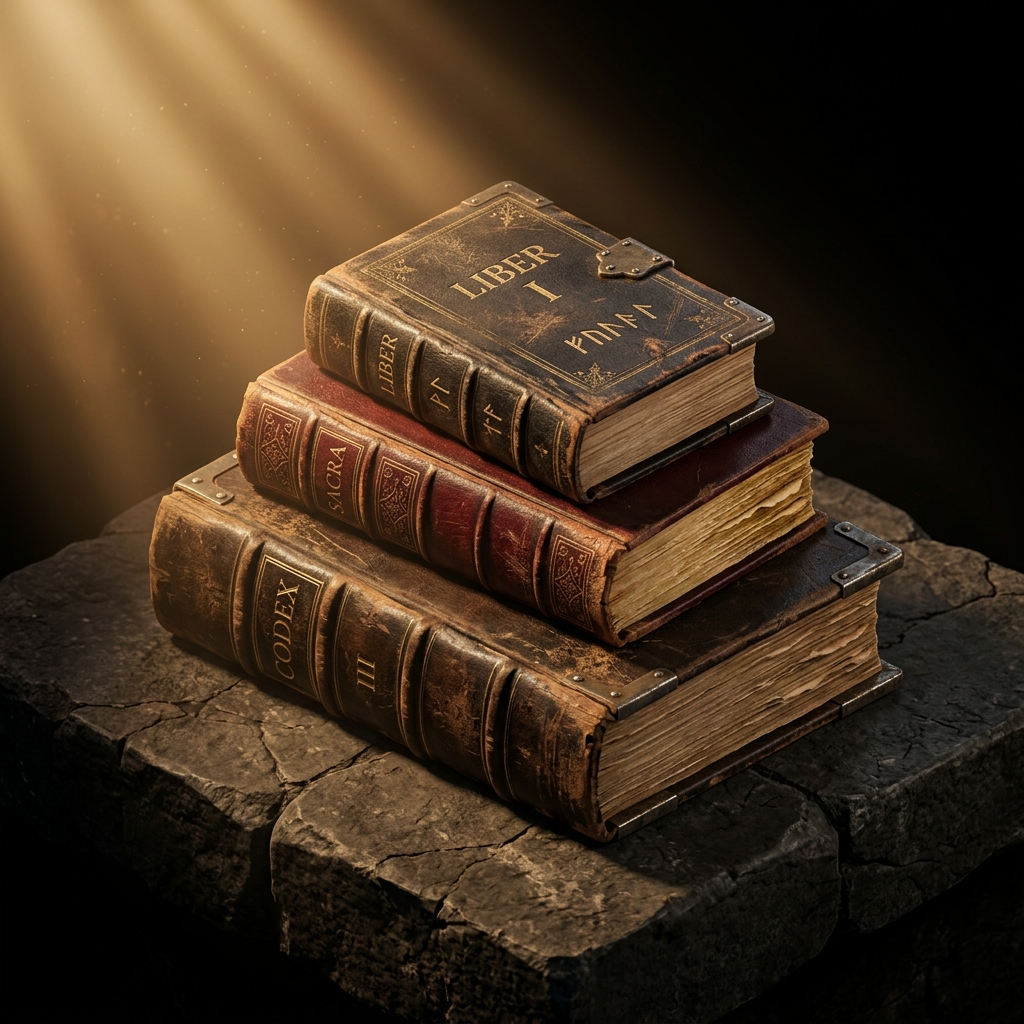
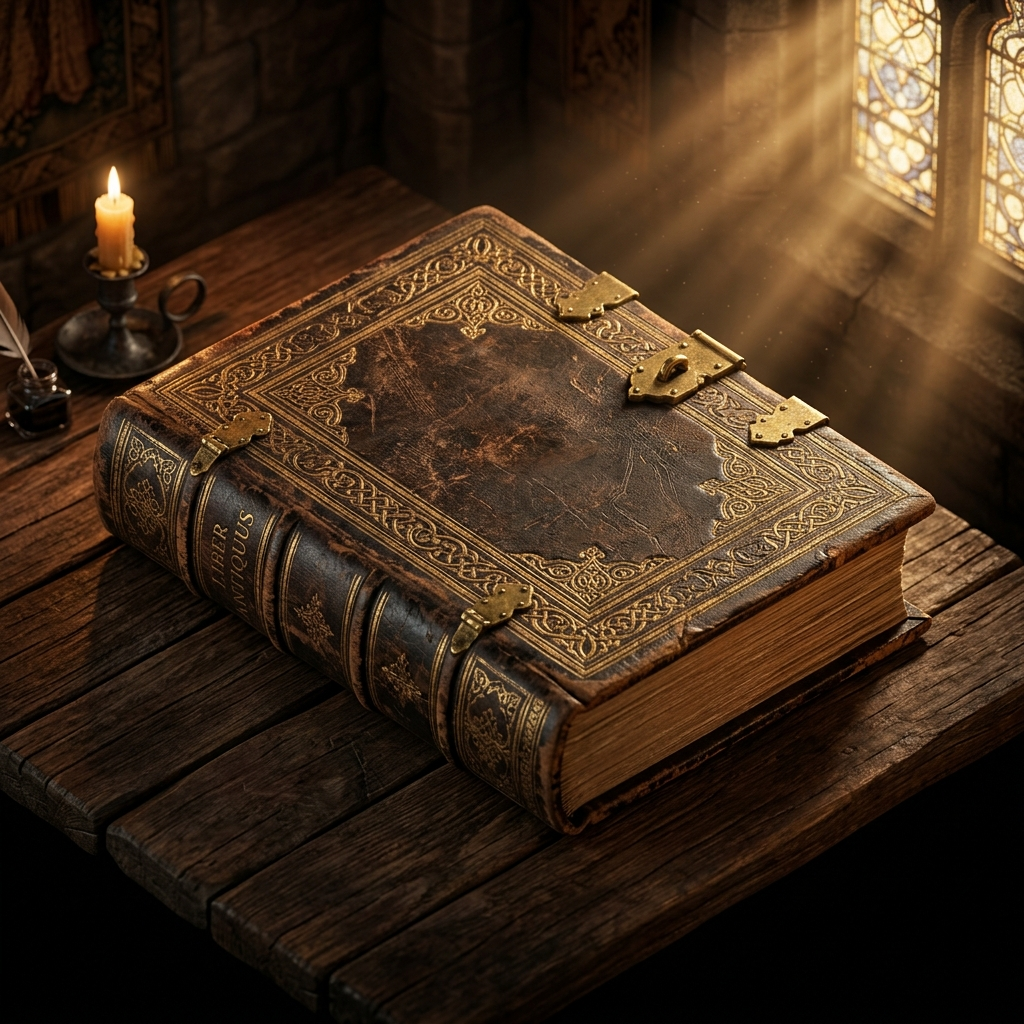
Se fixea una implementacion erronea de las fases de los elementos y detalles acerca del frontend del login

diff --git a/client/src/routes/Elements/index.tsx b/client/src/routes/Elements/index.tsx
@@ -68,7 +68,7 @@ function ElementsPage() {
         { name: 'Biblioteca organizada', desc: 'Una estantería de madera. Tu conocimiento está bien estructurado.' },
         { name: 'Espacio intelectual', desc: 'Escritorio con tintero, velas y pluma. La sabiduría guía tus días.' },
       ]
-      const currentPhase = phases[fase] || { name: 'Objeto en evolución', desc: 'Tu elemento se está forjando.' }
+      const currentPhase = phases[fase - 1] || { name: 'Objeto en evolución', desc: 'Tu elemento se está forjando.' }
 
       return {
         typeLabel: 'Intelecto y Foco',
@@ -92,7 +92,7 @@ function ElementsPage() {
         { name: 'Banco de entrenamiento', desc: 'Área de fuerza con soporte. La disciplina esculpe tu físico.' },
         { name: 'Gimnasio personal', desc: 'Espacio completo con barras y discos. El templo de la disciplina.' },
       ]
-      const currentPhase = phases[fase] || { name: 'Objeto en evolución', desc: 'Tu elemento se está forjando.' }
+      const currentPhase = phases[fase - 1] || { name: 'Objeto en evolución', desc: 'Tu elemento se está forjando.' }
 
       return {
         typeLabel: 'Fuerza y Disciplina',
@@ -116,7 +116,7 @@ function ElementsPage() {
         { name: 'Rincón de meditación', desc: 'Cojín de zafu y plantas de bambú. Tu santuario de introspección.' },
         { name: 'Altar zen avanzado', desc: 'Campanas tibetanas, velas y luz tenue. Armonía espiritual total.' },
       ]
-      const currentPhase = phases[fase] || { name: 'Objeto en evolución', desc: 'Tu elemento se está forjando.' }
+      const currentPhase = phases[fase - 1] || { name: 'Objeto en evolución', desc: 'Tu elemento se está forjando.' }
 
       return {
         typeLabel: 'Calma y Bienestar',
@@ -135,12 +135,12 @@ function ElementsPage() {
 
     // Default / Personalizado
     const defaultPhases = [
-      { name: 'Objeto Fase 0', desc: 'Comienzo de un nuevo ciclo en tu habitación.' },
-      { name: 'Objeto Fase 1', desc: 'Tu constancia está moldeando el entorno.' },
-      { name: 'Objeto Fase 2', desc: 'La habitación refleja tu crecimiento.' },
-      { name: 'Objeto Fase 3', desc: 'Representación máxima de tu consistencia.' },
+      { name: 'Objeto Fase 1', desc: 'Comienzo de un nuevo ciclo en tu habitación.' },
+      { name: 'Objeto Fase 2', desc: 'Tu constancia está moldeando el entorno.' },
+      { name: 'Objeto Fase 3', desc: 'La habitación refleja tu crecimiento.' },
+      { name: 'Objeto Fase 4', desc: 'Representación máxima de tu consistencia.' },
     ]
-    const currentPhase = defaultPhases[fase] || { name: 'Objeto en evolución', desc: 'Tu elemento se está forjando.' }
+    const currentPhase = defaultPhases[fase - 1] || { name: 'Objeto en evolución', desc: 'Tu elemento se está forjando.' }
 
     return {
       typeLabel: 'Crecimiento Personal',
@@ -229,8 +229,8 @@ function ElementsPage() {
         // Grid de Elementos
         <div className="mt-10 grid gap-6 sm:grid-cols-2 lg:grid-cols-3 items-stretch">
           {elements.map((elem) => {
-            const xpNeeded = elem.fase_elemento === 0 ? 100 : elem.fase_elemento === 1 ? 200 : 400
-            const progressPercentage = elem.fase_elemento >= 3 ? 100 : Math.max((elem.xp_fase_actual_elemento / xpNeeded) * 100, 2)
+            const xpNeeded = elem.fase_elemento === 1 ? 100 : elem.fase_elemento === 2 ? 200 : 400
+            const progressPercentage = elem.fase_elemento >= 4 ? 100 : Math.max((elem.xp_fase_actual_elemento / xpNeeded) * 100, 2)
             const details = getElementDetails(elem.nombre_elemento, elem.fase_elemento)
             const Icon = details.icon
 
@@ -339,7 +339,7 @@ function ElementsPage() {
                   <div className="border-t border-white/5 pt-4 mt-6">
                     <div className="flex items-baseline justify-between font-sans text-xs">
                       <span className="font-semibold text-on-surface-variant/50">Progreso de Fase</span>
-                      {elem.fase_elemento < 3 ? (
+                      {elem.fase_elemento < 4 ? (
                         <span className="font-bold text-on-surface-variant/80">
                           {elem.xp_fase_actual_elemento} / {xpNeeded} XP
                         </span>

diff --git a/client/src/components/HabitCard.tsx b/client/src/components/HabitCard.tsx
@@ -461,37 +461,37 @@ export function HabitCard({ habit }: HabitCardProps) {
                     <p className="font-sans text-xs text-on-surface-variant/75 mt-0.5 font-medium">
                       Fase {habit.elemento.fase_elemento}: {
                         habit.elemento.nombre_elemento === 'Libro Antiguo' ? (
-                          habit.elemento.fase_elemento === 0 ? 'Libro simple' :
-                          habit.elemento.fase_elemento === 1 ? 'Pequeña colección' :
-                          habit.elemento.fase_elemento === 2 ? 'Biblioteca organizada' :
+                          habit.elemento.fase_elemento === 1 ? 'Libro simple' :
+                          habit.elemento.fase_elemento === 2 ? 'Pequeña colección' :
+                          habit.elemento.fase_elemento === 3 ? 'Biblioteca organizada' :
                           'Espacio intelectual avanzado'
                         ) : 'Objeto en evolución'
                       }
                     </p>
 
                     {/* Barra de progreso de fase */}
-                    {habit.elemento.fase_elemento < 3 ? (
+                    {habit.elemento.fase_elemento < 4 ? (
                       <div className="mt-3">
                         <div className="flex items-center justify-between font-label text-[10px] text-on-surface-variant/50 font-bold">
                           <span>XP de Fase</span>
                           <span>
                             {habit.elemento.xp_fase_actual_elemento} / {
-                              habit.elemento.fase_elemento === 0 ? 100 :
-                              habit.elemento.fase_elemento === 1 ? 200 : 400
+                              habit.elemento.fase_elemento === 1 ? 100 :
+                              habit.elemento.fase_elemento === 2 ? 200 : 400
                             } XP
                           </span>
                         </div>
                         <div className="mt-1 h-1.5 rounded-full bg-white/5 p-0.5 overflow-hidden">
                           <div
-                            className="h-full rounded-full bg-gradient-to-r from-primary/80 to-primary shadow-[0_0_8px_rgba(247,187,126,0.15)] transition-all duration-500"
-                            style={{
-                              width: `${
-                                (habit.elemento.xp_fase_actual_elemento / (
-                                  habit.elemento.fase_elemento === 0 ? 100 :
-                                  habit.elemento.fase_elemento === 1 ? 200 : 400
-                                )) * 100
-                              }%`
-                            }}
+                              className="h-full rounded-full bg-gradient-to-r from-primary/80 to-primary shadow-[0_0_8px_rgba(247,187,126,0.15)] transition-all duration-500"
+                              style={{
+                                width: `${
+                                  (habit.elemento.xp_fase_actual_elemento / (
+                                    habit.elemento.fase_elemento === 1 ? 100 :
+                                    habit.elemento.fase_elemento === 2 ? 200 : 400
+                                  )) * 100
+                                }%`
+                              }}
                           />
                         </div>
                       </div>

diff --git a/client/src/pages/LoginPage.tsx b/client/src/pages/LoginPage.tsx
@@ -1,6 +1,6 @@
 import { Link, useNavigate } from '@tanstack/react-router'
 import { ArrowRight, Brain, LockKeyhole, Mail } from 'lucide-react'
-import { useState } from 'react'
+import { useState, useEffect } from 'react'
 import type { ComponentPropsWithoutRef } from 'react'
 
 import { AuthBrand } from '../components/AuthBrand'
@@ -16,6 +16,20 @@ export function LoginPage() {
   const [showPassword, setShowPassword] = useState(false)
   const [errorMessage, setErrorMessage] = useState('')
   const [isSubmitting, setIsSubmitting] = useState(false)
+
+  // Hide scrollbar when the login page is active
+  useEffect(() => {
+    const originalBodyOverflow = document.body.style.overflow
+    const originalHtmlOverflow = document.documentElement.style.overflow
+
+    document.body.style.overflow = 'hidden'
+    document.documentElement.style.overflow = 'hidden'
+
+    return () => {
+      document.body.style.overflow = originalBodyOverflow
+      document.documentElement.style.overflow = originalHtmlOverflow
+    }
+  }, [])
 
   const handleSubmit: ComponentPropsWithoutRef<'form'>['onSubmit'] = async (event) => {
     event.preventDefault()

diff --git a/server/src/controllers/habits.controller.ts b/server/src/controllers/habits.controller.ts
@@ -217,11 +217,11 @@ export const checkHabit = async (req: Request, res: Response) => {
         let elementXp = element.xp_fase_actual_elemento + 20
         let threshold = 100
         
-        if (currentPhase === 1) threshold = 200
-        if (currentPhase === 2) threshold = 400
+        if (currentPhase === 2) threshold = 200
+        if (currentPhase === 3) threshold = 400
 
-        // Si no ha alcanzado la fase máxima (3), evaluar subida de fase
-        if (currentPhase < 3 && elementXp >= threshold) {
+        // Si no ha alcanzado la fase máxima (4), evaluar subida de fase
+        if (currentPhase < 4 && elementXp >= threshold) {
           elementXp -= threshold
           currentPhase += 1
         }
@@ -393,7 +393,7 @@ export const createHabit = async (req: Request, res: Response) => {
       await tx.elemento.create({
         data: {
           nombre_elemento: nombre_elemento ? nombre_elemento.trim() : 'Libro Antiguo',
-          fase_elemento: 0,
+          fase_elemento: 1,
           grid_col: 1, // Por defecto en algún lugar del grid
           grid_fila: 1,
           xp_fase_actual_elemento: 0,

diff --git a/client/src/routes/index.tsx b/client/src/routes/index.tsx
@@ -1,14 +1,7 @@
 import { createFileRoute } from '@tanstack/react-router'
 
-export const Route = createFileRoute('/')({ component: Home })
+import { LoginPage } from '../pages/LoginPage'
 
-function Home() {
-  return (
-    <div className="p-8">
-      <h1 className="text-4xl font-bold">Welcome to TanStack Start</h1>
-      <p className="mt-4 text-lg">
-        Edit <code>src/routes/index.tsx</code> to get started.
-      </p>
-    </div>
-  )
-}
+export const Route = createFileRoute('/')({
+  component: LoginPage,
+})
